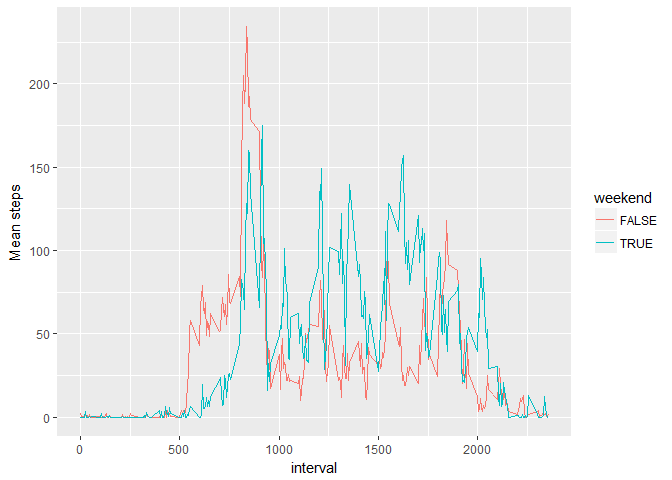
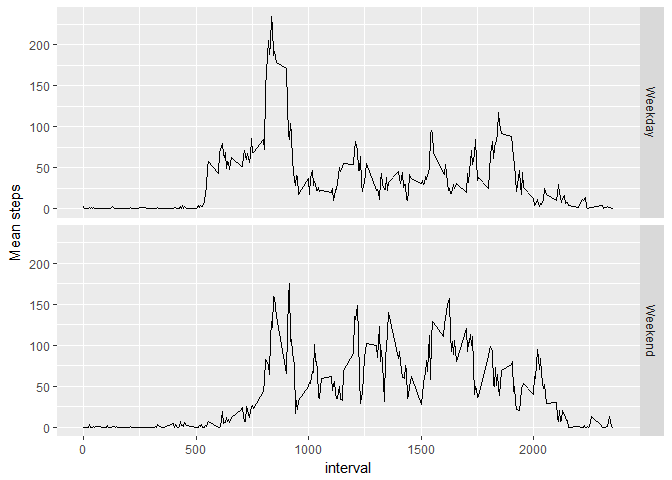
Panel plot on last question

diff --git a/PA1_template.html b/PA1_template.html
@@ -287,16 +287,16 @@ weekdayIndex &lt;- (1:nrow(data))[data$weekend == FALSE]
 meanStepsWeekend &lt;- data[weekendIndex,mean(steps),by=interval]
 meanStepsWeekday &lt;- data[weekdayIndex,mean(steps),by=interval]
 
-meanStepsWeekend$weekend &lt;- TRUE
-meanStepsWeekday$weekend &lt;- FALSE
+meanStepsWeekend$weekend &lt;- &quot;Weekend&quot;
+meanStepsWeekday$weekend &lt;- &quot;Weekday&quot;
 
 meanSteps &lt;- rbind(meanStepsWeekday, meanStepsWeekend)
 
-ggplot(meanSteps, aes(x = interval, y = V1, col = weekend)) +
-  geom_line() +
+qplot(interval, V1, data = meanSteps, geom = &quot;line&quot;) +
+  facet_grid(weekend ~ .) +
   xlab(&quot;interval&quot;) +
   ylab(&quot;Mean steps&quot;)</code></pre>
[2 lines of base64/hex data omitted]
 </div>
 
 

diff --git a/PA1_template.md b/PA1_template.md
@@ -250,13 +250,13 @@ weekdayIndex <- (1:nrow(data))[data$weekend == FALSE]
 meanStepsWeekend <- data[weekendIndex,mean(steps),by=interval]
 meanStepsWeekday <- data[weekdayIndex,mean(steps),by=interval]
 
-meanStepsWeekend$weekend <- TRUE
-meanStepsWeekday$weekend <- FALSE
+meanStepsWeekend$weekend <- "Weekend"
+meanStepsWeekday$weekend <- "Weekday"
 
 meanSteps <- rbind(meanStepsWeekday, meanStepsWeekend)
 
-ggplot(meanSteps, aes(x = interval, y = V1, col = weekend)) +
-  geom_line() +
+qplot(interval, V1, data = meanSteps, geom = "line") +
+  facet_grid(weekend ~ .) +
   xlab("interval") +
   ylab("Mean steps")
 ```
